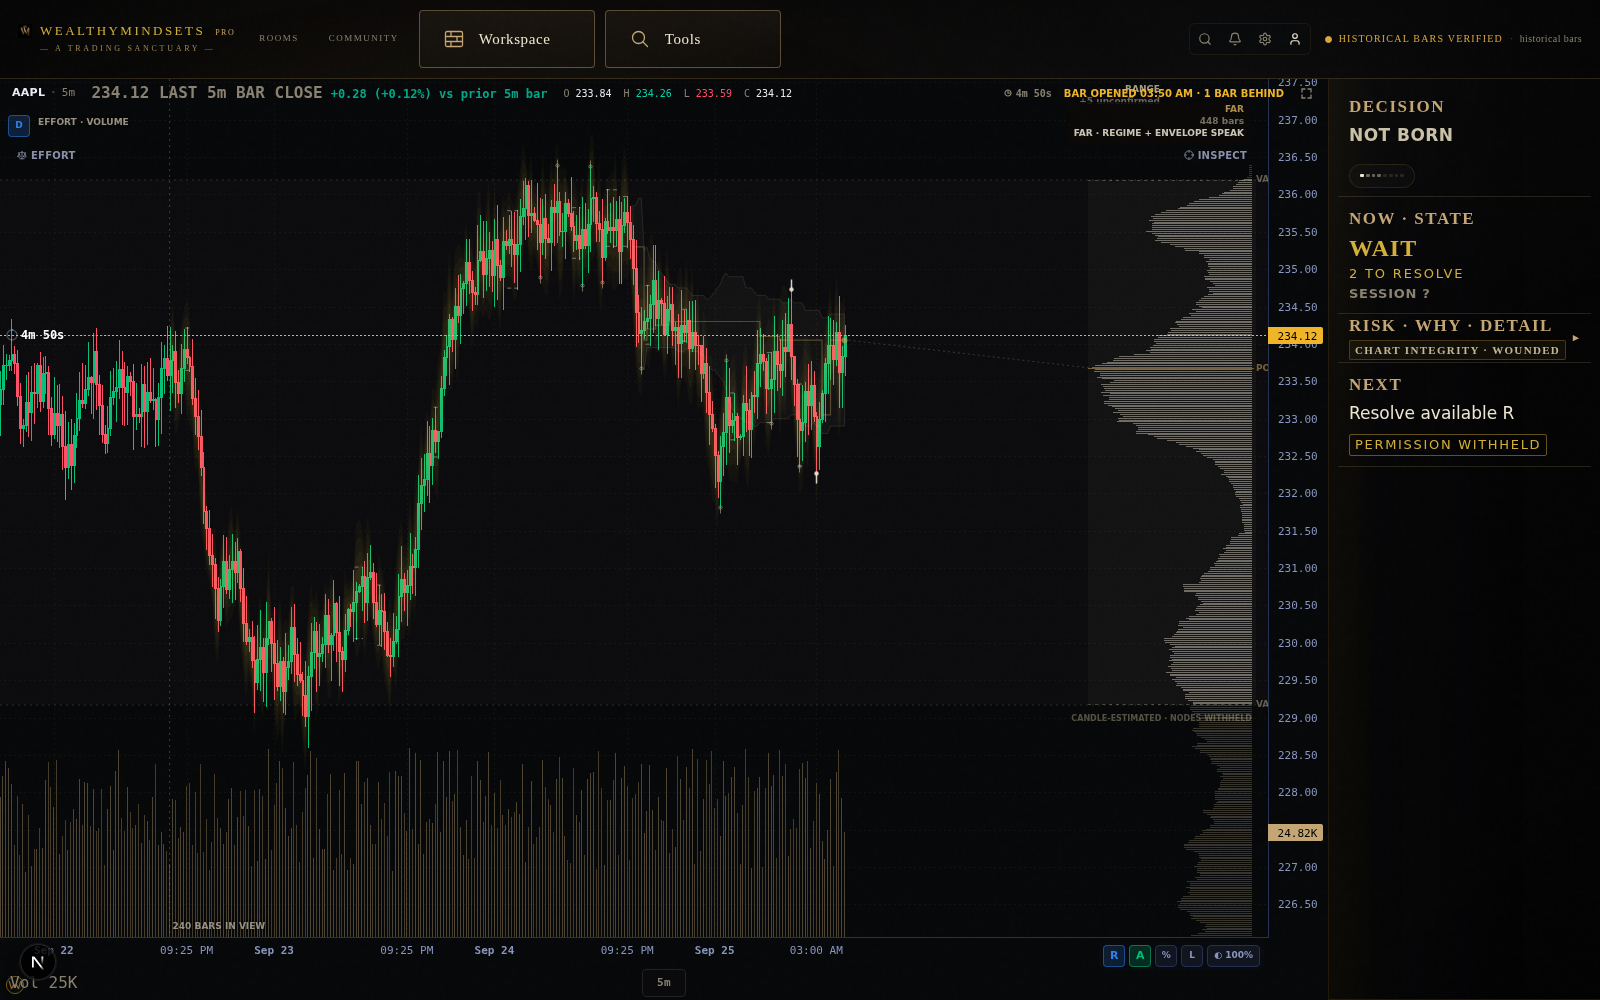
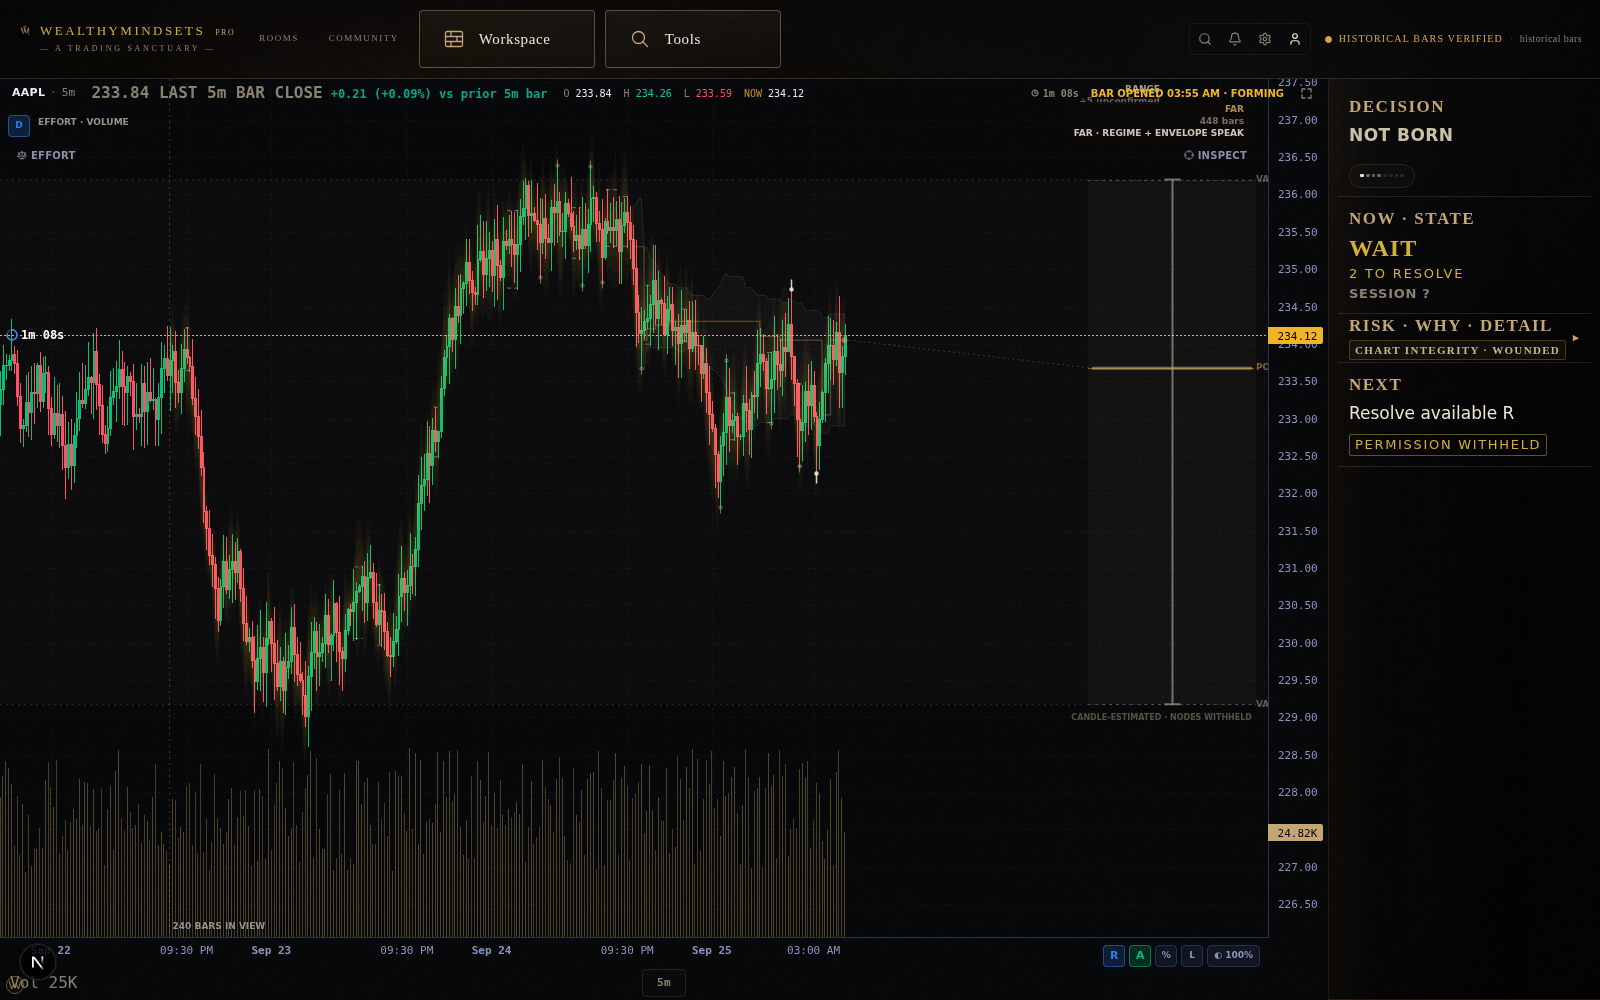
Garden 12 · H-501 FAR shows the Living Profile as its skeleton
At regime scale rows are noise: the lane draws the value-area spine with caps
and the POC as one brass stroke (same owner, same prices); MID/NEAR keep the
rows. Receipt: ds.livingProfileDepthForm (SKELETON / ROWS), proved with the
absorption form and ds.semanticDensity at FAR/MID/NEAR (garden12/depth.mjs).

Claude-Session: https://claude.ai/code/session_01Gntm2WzCaW5uQMS2aMojoZ

diff --git a/src/components/chart/MainChart.tsx b/src/components/chart/MainChart.tsx
@@ -9907,7 +9907,29 @@ export function MainChart({ symbol, timeframe, setTimeframe, footprintType, foot
               rowH = Math.max(2, Math.min(10, Math.round(g)));
             }
 
-            for (const b of lp.bars) {
+            // H-501 · At FAR the Living Profile is its SKELETON: rows are noise
+            // at regime scale, so the lane shows a value-area spine with caps
+            // and the POC as one brass stroke — same owner, same prices.
+            const livingDepth = (() => {
+              try {
+                const vr = chart.timeScale().getVisibleLogicalRange();
+                return semanticDensityForBarCount(vr ? Math.max(0, Math.floor(vr.to) - Math.ceil(vr.from) + 1) : null).depth;
+              } catch { return "UNMEASURED" as const; }
+            })();
+            ds.livingProfileDepthForm = livingDepth === "FAR" ? "SKELETON" : "ROWS";
+            if (livingDepth === "FAR" && lp.vah != null && lp.val != null) {
+              const yh = srs.priceToCoordinate(lp.vah), yl = srs.priceToCoordinate(lp.val), yp = srs.priceToCoordinate(lp.poc);
+              if (yh != null && yl != null) {
+                const sx = Math.round(rightEdge - histMax * 0.5) + 0.5;
+                ctx.strokeStyle = "rgba(237,230,211,0.75)"; ctx.lineWidth = 2;
+                ctx.beginPath(); ctx.moveTo(sx, +yh); ctx.lineTo(sx, +yl);
+                ctx.moveTo(sx - 8, +yh); ctx.lineTo(sx + 8, +yh); ctx.moveTo(sx - 8, +yl); ctx.lineTo(sx + 8, +yl); ctx.stroke();
+                if (yp != null) { ctx.strokeStyle = "rgba(201,165,92,1)"; ctx.lineWidth = 3; ctx.beginPath(); ctx.moveTo(rightEdge - histMax, +yp); ctx.lineTo(rightEdge, +yp); ctx.stroke(); }
+                ctx.lineWidth = 1;
+              }
+            }
+
+            for (const b of (livingDepth === "FAR" ? [] : lp.bars)) {
               const yr = srs.priceToCoordinate(b.price);
               if (yr == null) continue;
               const y = Math.round(+yr) - Math.floor(rowH / 2);
